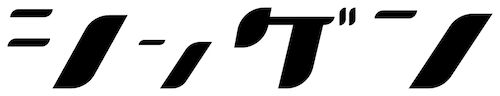
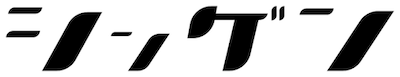
default page updated

diff --git a/default/app/templates/navbar.html b/default/app/templates/navbar.html
@@ -1,32 +1,13 @@
-<nav class="bg-white sticky top-0 px-3 py-5">
-    <div class="max-w-4xl mx-auto">
+<nav class="bg-white sticky top-0 px-3 py-10">
+    <div class="mx-auto max-w-xl">
         <div class="flex justify-between">
-            <div class="flex space-x-5"></div>
-
-        <!-- secondary nav -->
-        <div class="hidden md:flex items-center space-x-5">
-            <a href="" class="px-2 py-1 text-sm text-rose-700 rounded-full border border-rose-700 hover:bg-rose-100">ログイン</a>
-        </div>
-
-            <!-- mobile button goes here -->
-            <div class="md:hidden flex items-center">
-                <button class="mobile-menu-button">
-                <svg xmlns="http://www.w3.org/2000/svg" class="h-6 w-6" fill="none" viewBox="0 0 24 24" stroke="currentColor">
-  <path stroke-linecap="round" stroke-linejoin="round" stroke-width="2" d="M4 6h16M4 12h16M4 18h16" /></svg>
-                    </button>
+            <div class="">
             </div>
-
+            <div class="items-center">
+                <a href="" class="px-2 py-1 text-sm text-rose-700 rounded-full border border-rose-700 hover:bg-rose-100">
+                    ログイン
+                </a>
+            </div>
         </div>
-    </div>
-
-    <!-- mobile menu goes here -->
-    <div class="mobile-menu hidden md:hidden">
-    <a href="/" class="block py-2 px-3 text-gray-700 hover:bg-gray-200">
-                        ホーム</a>
-    <a href="/requests" class="block py-2 px-3 text-gray-700 hover:bg-gray-200">
-                        配送依頼事項</a>
-    <div class="block py-2 px-3">
-    </div>
-    <a href="/logout" class="block py-2 px-3 text-blue-600 hover:bg-gray-200">ログアウト</a>
     </div>
 </nav>

diff --git a/default/app/templates/index.html b/default/app/templates/index.html
@@ -1,7 +1,7 @@
 {% extends "layout.html" %}
 {% block content %}
 {% include "navbar.html" %}
-<div class="h-screen container flex justify-center items-center">
-    <img src="{{ url_for('static', filename='img/singen_top.png') }}" width=500 height=96 alt="シンゲン　ロゴ">
+<div class="h-screen w-screen flex justify-center items-center">
+    <img src="{{ url_for('static', filename='img/singen_top.png') }}" width=400 height=77 alt="シンゲン ロゴ">
 </div>
 {% endblock %}

diff --git a/default/app/templates/footer.html b/default/app/templates/footer.html
@@ -1,5 +1,5 @@
-<footer class="bg-gray-100 text-center">
-    <div class="text-gray-700 text-center p-5 text-sm">
+<footer class="bg-gray-100 text-center py-10">
+    <div class="text-gray-700 text-center text-sm">
       シンゲン © 2022 Copyright:
       <a class="text-gray-800" href="https://www.sfinter.com/">K.K Satisfactory</a>
     </div>
